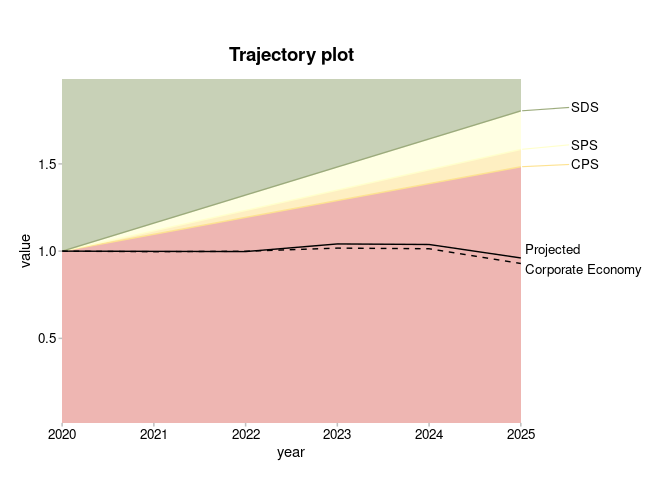
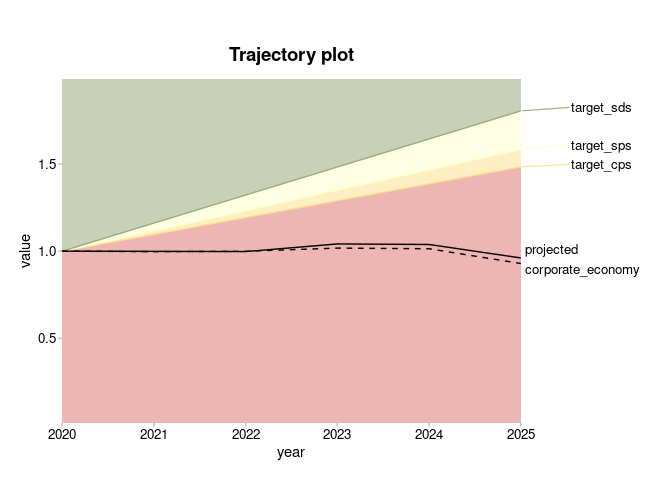
Update NEWS.md

Changed region(s): [[0.7812, 0.5, 0.9688, 0.5938], [0.8438, 0.2812, 0.9375, 0.375], [0.8438, 0.2188, 0.9375, 0.25]]

diff --git a/README.md b/README.md
@@ -104,7 +104,7 @@ naive call.
 plot_emission_intensity(sda)
 #> Error: `data` must have a single value of `sector`.
 #> ℹ Do you need to pick one value? E.g. pick 'automotive' with: `subset(data, sector == 'automotive')`.
-#> ✖ Provided: automotive, aviation, cement, oil and gas, shipping, coal, steel.
+#> x Provided: automotive, aviation, cement, oil and gas, shipping, coal, steel.
 ```
 
 The error message guides you to subset a single value of `sector`. Try
@@ -119,13 +119,11 @@ plot_emission_intensity(data)
 
 <img src="man/figures/README-unnamed-chunk-4-1.png" width="100%" style="display: block; margin: auto auto auto 0;" />
 
-Great\! You can now polish your plot. Your options are limitless but
+Great! You can now polish your plot. Your options are limitless but
 these are some typical things you may do:
 
-  - Add a title.
-  - Customize the legend labels with `ggplot2::scale_colour_manual()`.
-
-<!-- end list -->
+-   Add a title.
+-   Customize the legend labels with `ggplot2::scale_colour_manual()`.
 
 ``` r
 data <- subset(sda, sector == "cement")
@@ -163,12 +161,10 @@ plot_techmix(data) +
 
 These are some tweaks you may consider:
 
-  - Subset a custom time range (instead of the default, full range in
+-   Subset a custom time range (instead of the default, full range in
     the data).
-  - Set custom colours and legend labels with
+-   Set custom colours and legend labels with
     `ggplot2::scale_color_manual()`.
-
-<!-- end list -->
 
 ``` r
 data <- subset(

diff --git a/NEWS.md b/NEWS.md
@@ -1,5 +1,7 @@
 # r2dii.plot (development version)
 
+* `plot_trajectory()` now plots legend labels from `metric` "as is" (#346).
+
 * Error messages now more closely follow the tidyverse style guide (#324).  
 
 * `plot_trajectory()` now plots the main line on top of all other lines, so
